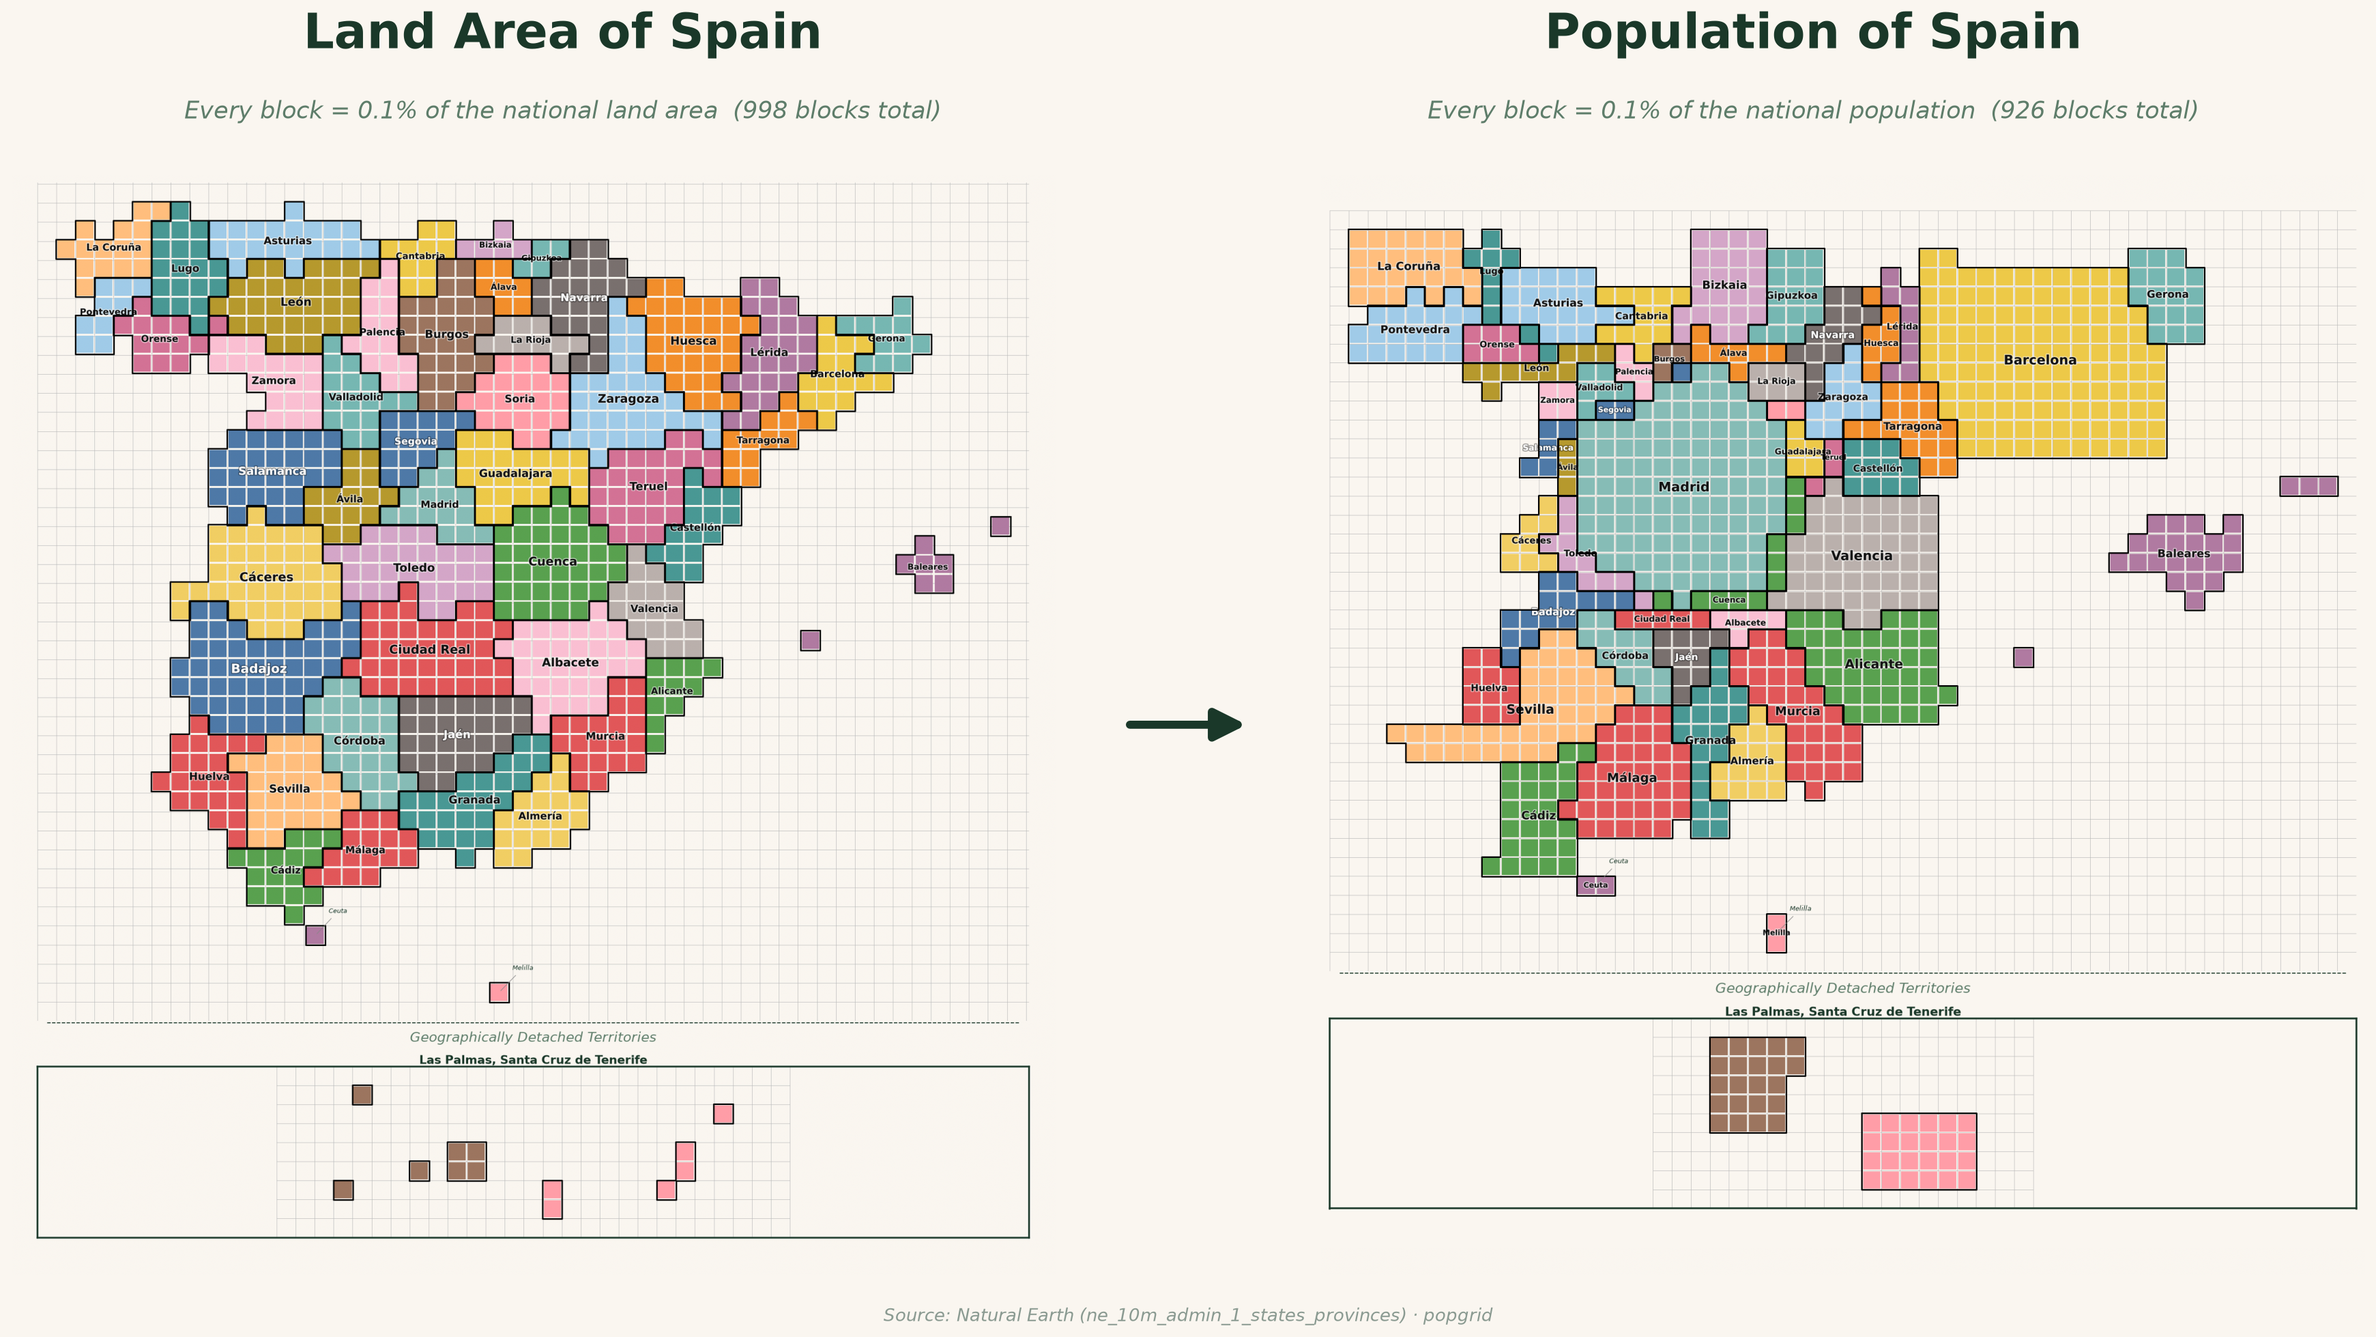
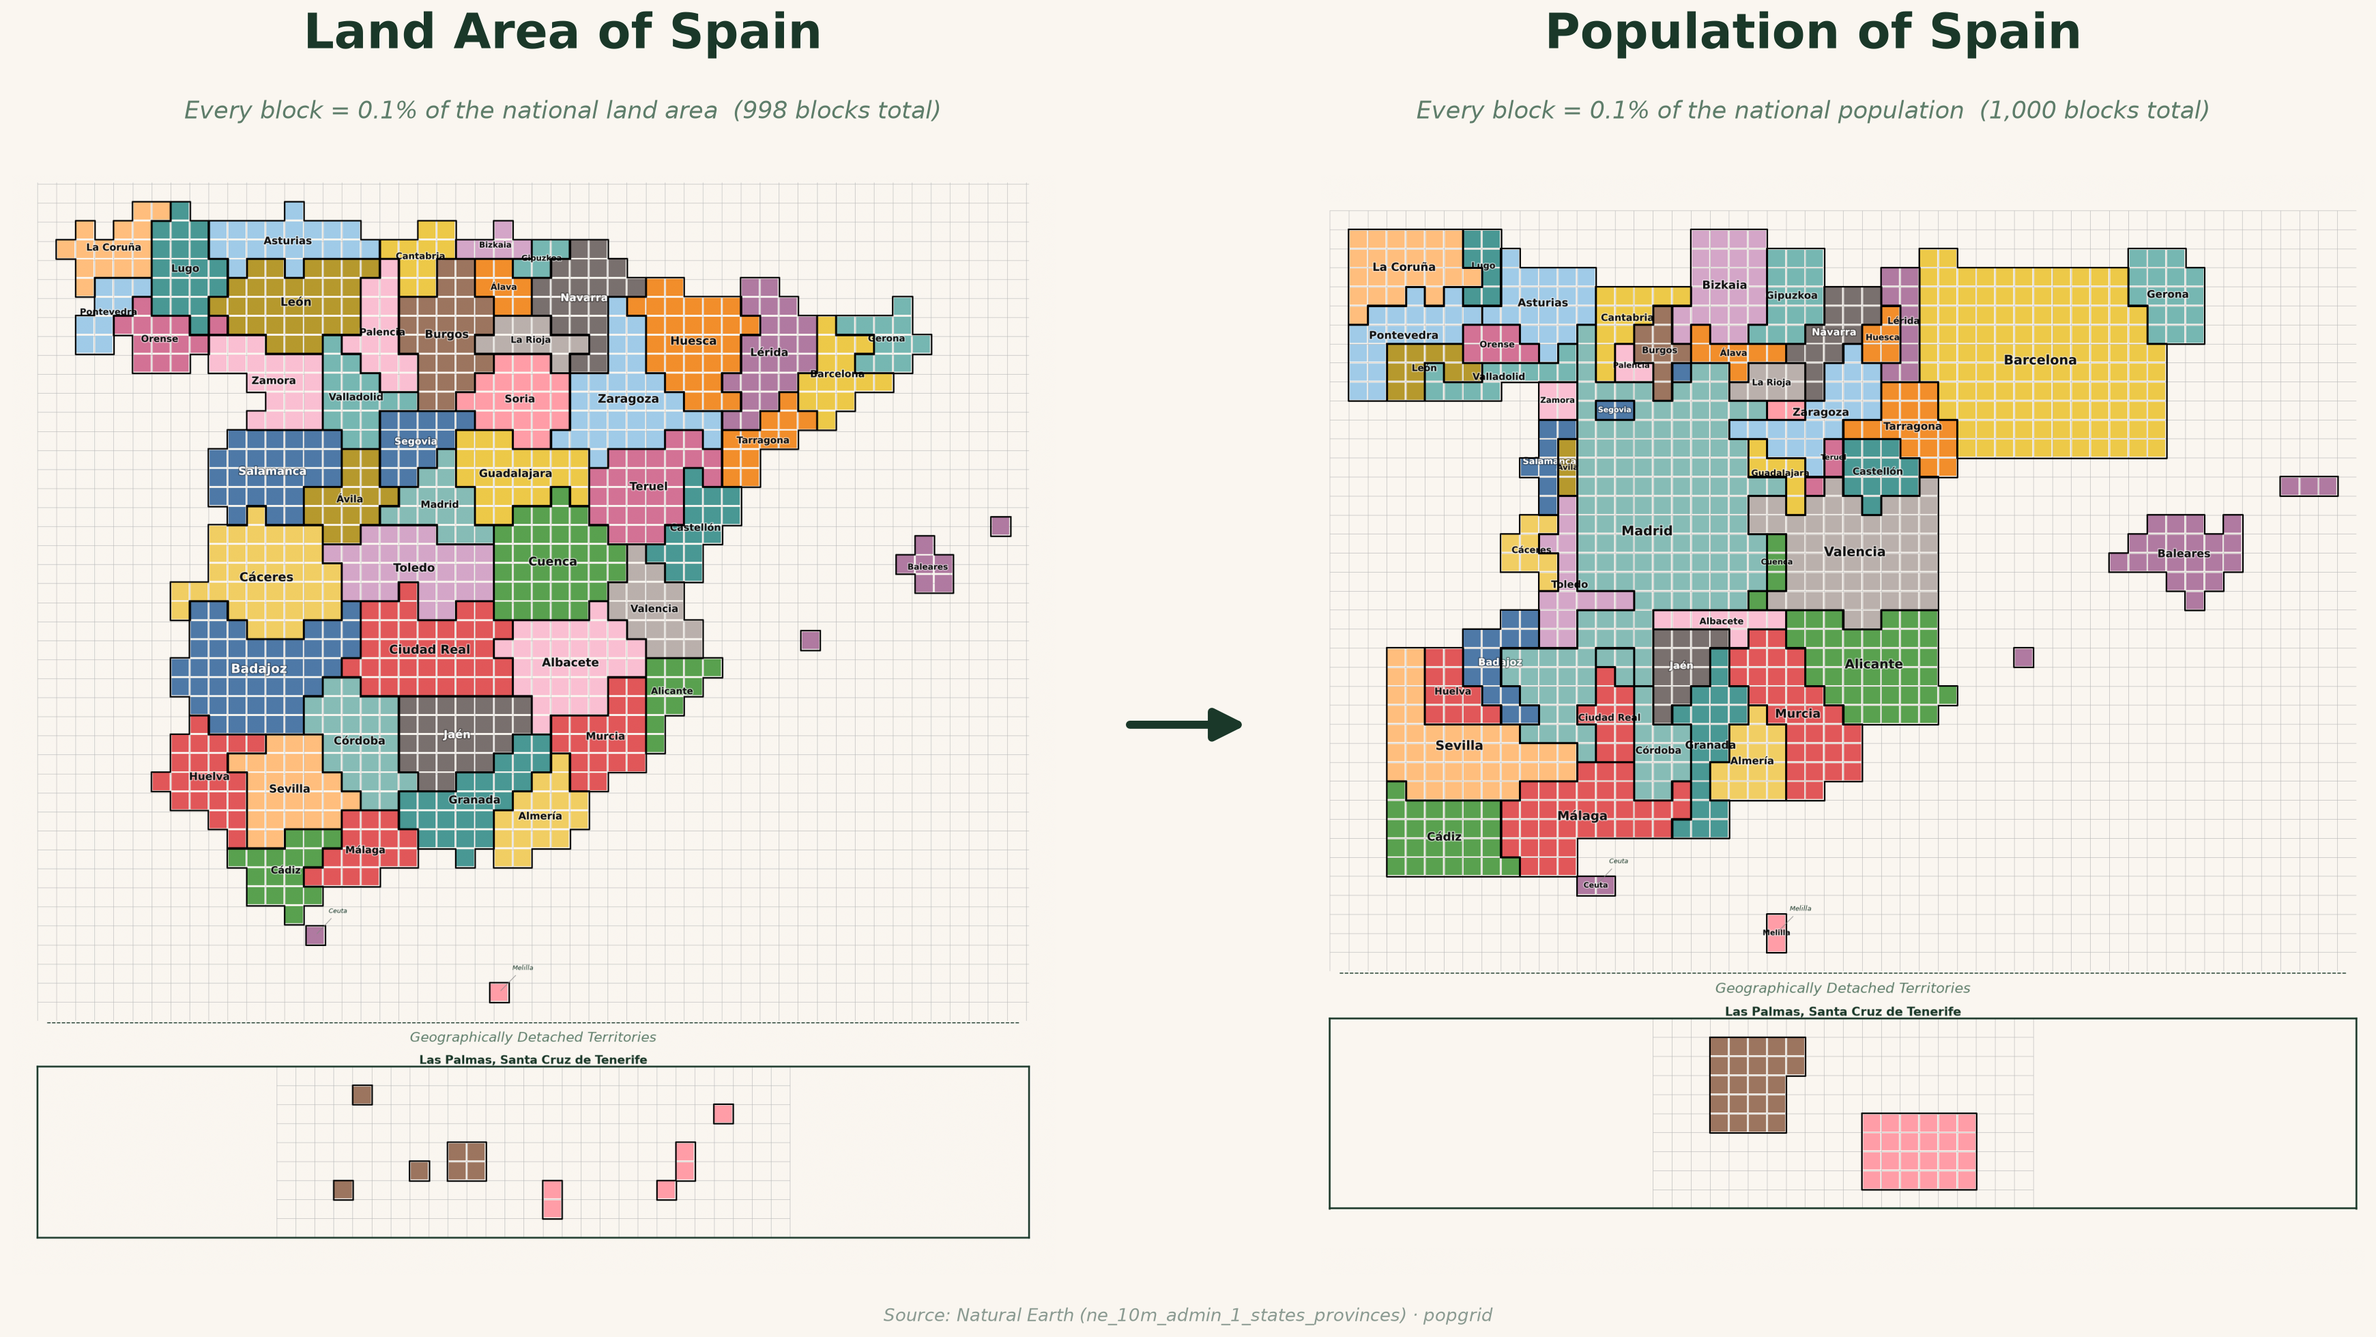
PopGrid: guarantee every region gets exactly its population quota
fit_quota could only grow regions into empty space and enforce_topology let
connector regions keep cells they absorbed, so enclosed regions ended up far
off quota (Cuenca 11 blocks vs 4, Madrid 107 vs 142; total 926 not 1000).
Add balance_quotas as the final step: fixes each landmass total, then moves
surplus cells along shortest region-adjacency paths to under-quota regions,
preferring moves that keep regions contiguous and borders legal.
Now exact for ESP, FRA, DEU, ITA, USA, JPN.

Changed region(s): [[0.5583, 0.1868, 0.8374, 0.4359], [0.5583, 0.4048, 0.7754, 0.6539], [0.5893, 0.0623, 0.9305, 0.0934]]

diff --git a/popgrid/cartogram.py b/popgrid/cartogram.py
@@ -745,3 +745,252 @@ def fill_gaps(
     if not out_frames:
         return cells.iloc[:0].copy()
     return gpd.GeoDataFrame(pd.concat(out_frames, ignore_index=True), crs=cells.crs)
+
+
+# ── Exact quota balancing (final step of PopGrid quota handling) ───────────────
+
+def balance_quotas(
+    cells: gpd.GeoDataFrame,
+    quotas: dict[str, int],
+    cell_size: float,
+    real_adj: dict[str, set] | None = None,
+) -> gpd.GeoDataFrame:
+    """
+    Force every region's cell count to **exactly** ``quotas[region]``.
+
+    ``fit_quota`` / ``enforce_topology`` / ``fill_gaps`` are shape- and
+    topology-driven: they can only grow a region into *empty* lattice cells
+    next to it and only trim from the outer silhouette, so a region enclosed by
+    others (Madrid, Toledo) can never reach its quota, and a connector that grew
+    a legal ring around it (Cuenca) cannot shed the ring cells.  This pass is
+    quota-driven instead: exact counts are a hard guarantee, while real-border
+    topology and contiguity are best-effort preferences.
+
+    Two phases, per landmass (lattice indices derived from each landmass's own
+    cell positions, exactly like :func:`fit_quota`):
+
+    a. **Fix the landmass total** so it equals the sum of the quotas of the
+       regions present.  If short, add empty cells adjacent to the silhouette
+       (most occupied 4-neighbours first, i.e. concavities before spikes), each
+       labelled with the adjacent region that is furthest below quota.  If over,
+       remove silhouette cells (a cell with an empty 4-neighbour can always go
+       without punching an interior hole), most over-quota region first, and
+       within a region the cell with the most empty neighbours.
+
+    b. **Move surplus inwards.**  While a region R is over quota, BFS over the
+       lattice region-adjacency graph (regions whose cells are 4-adjacent) to
+       the *nearest* region U that is under quota.  For the path
+       ``R = X0 → X1 → … → Xk = U`` one cell is transferred across every hop,
+       starting at the U end (``Xk-1 → Xk``, then ``Xk-2 → Xk-1``, …), so each
+       intermediate region ends up with the same count it started with.  For a
+       hop ``X → Y`` the cell of X adjacent to Y is chosen preferring
+       (1) X stays 4-connected *and* relabelling is topology-legal (every
+       4-neighbour of the cell is Y, a real neighbour of Y, or empty),
+       (2) X stays 4-connected, (3) anything; within a tier the cell with the
+       most Y neighbours wins (compact transfer).  Every path transfer lowers
+       ``Σ |count − quota|`` by two, so the loop terminates.
+    """
+    import pandas as pd
+    from collections import Counter, deque
+
+    real_adj = real_adj or {}
+    if cells is None or cells.empty:
+        return cells
+
+    out_frames = []
+    for lm_id, lm_cells in cells.groupby("landmass_id"):
+        minx = float(lm_cells["cx"].min())
+        miny = float(lm_cells["cy"].min())
+
+        def key(cx, cy):
+            return (round((cx - minx) / cell_size), round((cy - miny) / cell_size))
+
+        def nbrs(k):
+            i, j = k
+            return ((i + 1, j), (i - 1, j), (i, j + 1), (i, j - 1))
+
+        grid: dict[tuple[int, int], str] = {}
+        region_id_of: dict[str, int] = {}
+        for _, r in lm_cells.iterrows():
+            grid[key(r["cx"], r["cy"])] = r["region_name"]
+            region_id_of[r["region_name"]] = r["region_id"]
+
+        present = sorted(set(grid.values()))
+        quota = {n: max(int(quotas.get(n, 1)), 1) for n in present}
+        counts = Counter(grid.values())
+        target = sum(quota.values())
+
+        def region_keys(name):
+            return {k for k, v in grid.items() if v == name}
+
+        def connected_without(name, drop):
+            """Is ``name`` still 4-connected after removing ``drop``?"""
+            keys = region_keys(name)
+            keys.discard(drop)
+            if len(keys) <= 1:
+                return True
+            start = next(iter(keys))
+            seen = {start}
+            stack = [start]
+            while stack:
+                c = stack.pop()
+                for d in nbrs(c):
+                    if d in keys and d not in seen:
+                        seen.add(d)
+                        stack.append(d)
+            return len(seen) == len(keys)
+
+        def legal_at(region, k):
+            """Would relabelling cell ``k`` to ``region`` keep borders legal?"""
+            real = real_adj.get(region, set())
+            for d in nbrs(k):
+                o = grid.get(d)
+                if o is not None and o != region and o not in real:
+                    return False
+            return True
+
+        # ── (a) Pending total: grow into concavities or erode the outline ────
+        guard = 0
+        while sum(counts.values()) < target and guard < 200_000:
+            guard += 1
+            cands: dict[tuple[int, int], int] = {}
+            for k in grid:
+                for d in nbrs(k):
+                    if d not in grid:
+                        cands[d] = cands.get(d, 0) + 1
+            if not cands:
+                break
+            # Most occupied neighbours first (fill concavities); deterministic
+            # tie-break on lattice position.
+            best = max(cands, key=lambda c: (cands[c], -c[0], -c[1]))
+            owners = [grid[d] for d in nbrs(best) if d in grid]
+            # Hand it to the adjacent region furthest below its quota.
+            label = min(owners, key=lambda o: (counts[o] - quota[o], o))
+            grid[best] = label
+            counts[label] += 1
+
+        guard = 0
+        while sum(counts.values()) > target and guard < 200_000:
+            guard += 1
+            cands = []
+            for k, name in grid.items():
+                empty_nb = sum(1 for d in nbrs(k) if d not in grid)
+                if empty_nb == 0:
+                    continue  # interior cell: removing it would punch a hole
+                same_nb = sum(1 for d in nbrs(k) if grid.get(d) == name)
+                cands.append((counts[name] - quota[name], empty_nb, -same_nb, k))
+            cands.sort(reverse=True)
+            victim = None
+            for strict in (True, False):
+                for cand in cands:
+                    k = cand[-1]
+                    name = grid[k]
+                    if counts[name] <= 1:
+                        continue
+                    if strict and not connected_without(name, k):
+                        continue
+                    victim = k
+                    break
+                if victim is not None:
+                    break
+            if victim is None:
+                break
+            counts[grid.pop(victim)] -= 1
+
+        # ── (b) Flow surplus to the nearest under-quota region ──────────────
+        def adjacency():
+            adj: dict[str, set] = {n: set() for n in present}
+            for k, name in grid.items():
+                for d in nbrs(k):
+                    o = grid.get(d)
+                    if o is not None and o != name:
+                        adj[name].add(o)
+            return adj
+
+        def nearest_under(adj, root):
+            """Shortest region path root → some region below its quota."""
+            seen = {root}
+            parent: dict[str, str] = {}
+            queue = deque([root])
+            while queue:
+                cur = queue.popleft()
+                for nxt in sorted(adj.get(cur, ())):
+                    if nxt in seen:
+                        continue
+                    seen.add(nxt)
+                    parent[nxt] = cur
+                    if counts[nxt] < quota[nxt]:
+                        path = [nxt]
+                        while path[-1] != root:
+                            path.append(parent[path[-1]])
+                        path.reverse()
+                        return path
+                    # An intermediate region must survive the hop that empties
+                    # one of its cells (it gets one back afterwards).
+                    if counts[nxt] >= 2:
+                        queue.append(nxt)
+            return None
+
+        def pick_cell(src, dst):
+            """A cell of ``src`` 4-adjacent to ``dst``, best tier first."""
+            best, best_score = None, None
+            for k, name in grid.items():
+                if name != src:
+                    continue
+                dst_nb = sum(1 for d in nbrs(k) if grid.get(d) == dst)
+                if dst_nb == 0:
+                    continue
+                conn = connected_without(src, k)
+                if conn and legal_at(dst, k):
+                    tier = 0
+                elif conn:
+                    tier = 1
+                else:
+                    tier = 2
+                score = (-tier, dst_nb)
+                if best_score is None or score > best_score:
+                    best_score, best = score, k
+            return best
+
+        guard = 0
+        limit = 4 * (sum(counts.values()) + target) + 10_000
+        while guard < limit:
+            guard += 1
+            over = [n for n in present if counts[n] > quota[n]]
+            if not over:
+                break
+            root = max(over, key=lambda n: (counts[n] - quota[n], n))
+            path = nearest_under(adjacency(), root)
+            if path is None or len(path) < 2:
+                break
+            # One cell across every hop, starting at the deficit end, so the
+            # intermediate regions keep their counts.
+            moved = True
+            for src, dst in zip(reversed(path[:-1]), reversed(path[1:])):
+                cell = pick_cell(src, dst)
+                if cell is None or counts[src] <= 1:
+                    moved = False
+                    break
+                grid[cell] = dst
+                counts[src] -= 1
+                counts[dst] += 1
+            if not moved:
+                break
+
+        half = cell_size / 2.0
+        recs = {"cx": [], "cy": [], "region_id": [], "region_name": [], "landmass_id": []}
+        for (i, j), name in grid.items():
+            recs["cx"].append(minx + i * cell_size)
+            recs["cy"].append(miny + j * cell_size)
+            recs["region_id"].append(region_id_of[name])
+            recs["region_name"].append(name)
+            recs["landmass_id"].append(lm_id)
+        cx = np.array(recs["cx"]); cy = np.array(recs["cy"])
+        out_frames.append(gpd.GeoDataFrame(
+            recs, geometry=shapely.box(cx - half, cy - half, cx + half, cy + half),
+            crs=cells.crs,
+        ))
+
+    if not out_frames:
+        return cells.iloc[:0].copy()
+    return gpd.GeoDataFrame(pd.concat(out_frames, ignore_index=True), crs=cells.crs)

diff --git a/popgrid/core.py b/popgrid/core.py
@@ -865,7 +865,7 @@ class PopGrid(AreaGrid):
         """
         from .cartogram import (
             dougenik_cartogram, scale_to_area, fit_quota,
-            real_adjacency, enforce_topology, fill_gaps,
+            real_adjacency, enforce_topology, fill_gaps, balance_quotas,
         )
 
         # ── 1. Load regions ────────────────────────────────────────────────
@@ -969,6 +969,9 @@ class PopGrid(AreaGrid):
             ].reset_index(drop=True)
             region_names = [n for n in region_names if n in keep]
             quotas = {n: q for n, q in quotas.items() if n in keep}
+        # Final integer quota per drawn region (Hamilton, zero-block regions
+        # dropped) — the contract balance_quotas() enforces to the cell.
+        self._quotas = dict(quotas)
 
         # ── 4. Detect landmasses ───────────────────────────────────────────
         logger.info("[4/6] Detecting landmasses …")
@@ -1071,6 +1074,13 @@ class PopGrid(AreaGrid):
             radj = real_adjacency(self._regions_proj)
             all_cells = enforce_topology(all_cells, radj, quotas, self._cell_size)
             all_cells = fill_gaps(all_cells, self._cell_size, quotas=quotas)
+            # Last quota step: force every region to its exact Hamilton quota.
+            # The shape/topology passes above cannot grow an enclosed region or
+            # shed a topology-connector ring, so exact counts are guaranteed
+            # here (real borders and contiguity are best-effort preferences).
+            all_cells = balance_quotas(
+                all_cells, quotas, self._cell_size, radj
+            )
             # Re-anchor detached territories to the *deformed* mainland frame so
             # they keep their geographic bearing relative to the cartogram (this
             # is why an enclave like Melilla must not drift into a panel).

diff --git a/tests/test_core.py b/tests/test_core.py
@@ -361,3 +361,37 @@ def test_areagrid_from_geodataframe_ignores_weight():
     counts = _region_counts(ag)
     # Equal-area squares → roughly equal block counts.
     assert abs(int(counts["A"]) - int(counts["C"])) <= 0.25 * int(counts["A"])
+
+
+# ── PopGrid exact quotas ──────────────────────────────────────────────────────
+
+@pytest.fixture(scope="module")
+def esp_pop():
+    from popgrid import PopGrid
+    return PopGrid("ESP", n=1000).build()
+
+
+@pytest.fixture(scope="module")
+def deu_pop():
+    from popgrid import PopGrid
+    return PopGrid("DEU", n=1000).build()
+
+
+@pytest.mark.parametrize("fixture", ["esp_pop", "deu_pop"])
+def test_popgrid_every_region_matches_quota(fixture, request):
+    """Every drawn region gets exactly its Hamilton quota of blocks."""
+    pg = request.getfixturevalue(fixture)
+    counts = _region_counts(pg)
+    assert set(counts.index) <= set(pg._quotas)
+    for region, quota in pg._quotas.items():
+        assert int(counts.get(region, 0)) == quota, (
+            f"{region}: {int(counts.get(region, 0))} blocks, quota {quota}"
+        )
+
+
+@pytest.mark.parametrize("fixture", ["esp_pop", "deu_pop"])
+def test_popgrid_total_matches_quota_sum(fixture, request):
+    """Total cells equal the sum of quotas, i.e. all n blocks are drawn."""
+    pg = request.getfixturevalue(fixture)
+    assert sum(pg._quotas.values()) == pg.n
+    assert pg.total_cells == sum(pg._quotas.values())
